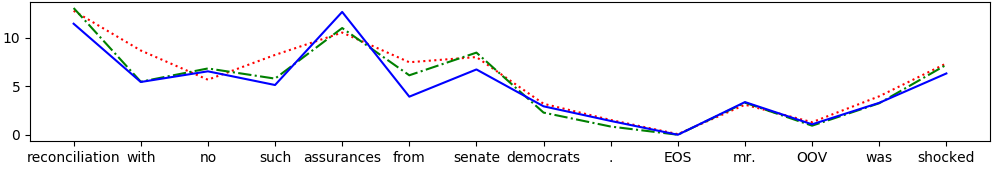
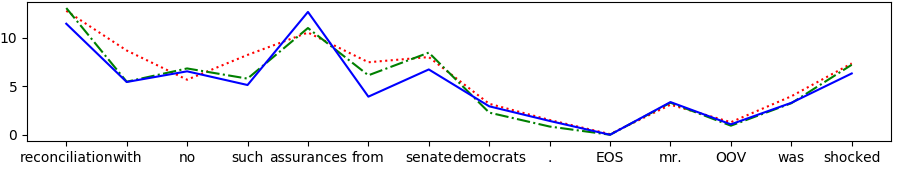
viz

diff --git a/code/nprd/visualize_PTB.py b/code/nprd/visualize_PTB.py
@@ -13,9 +13,18 @@ print(ids)
 language = "PTB"
 model = "REAL"
 ress = []
+times = []
+epochs_nums = []
 for idn in ids:
    with open("/home/user/CS_SCR/CODE/predictive-rate-distortion/results/outputs-nprd-words/test-estimates-"+language+"_"+"nprd_words_PTB_saveCodebook.py"+"_model_"+idn+"_"+model+".txt", "r") as inFile:
       args = next(inFile).strip().split(" ")
+      epochs = len(next(inFile).strip().split(" "))
+      epochs_nums.append(epochs)
+      next(inFile)
+      next(inFile)
+      next(inFile)
+      time = float(next(inFile).strip())
+      times.append(time)
       print(args)
       beta = args[-3]
       beta = -math.log(float(beta))
@@ -31,6 +40,10 @@ for idn in ids:
            assert data[i][0] == '0', data[i]
  #  print(len(dat))
    ress.append((idn, round(beta), dat))
+
+print(epochs_nums)
+print(times)
+#quit()
 
 ress = sorted(ress, key=lambda x:x[1])
 #print(ress)
@@ -77,7 +90,7 @@ for j in range(min(numsOfTexts)): #len(ress[0][2])):
    variations.append((j, variation))
    
    plt.subplots_adjust(left=0.03, right=0.99, top=0.99, bottom=0.17)
-   fig.set_size_inches(10, 1.7)
+   fig.set_size_inches(9, 1.7)
    #ax.grid(False)
    plt.xticks(pos[16:], [x.decode("utf-8") for x in char][16:])
   
